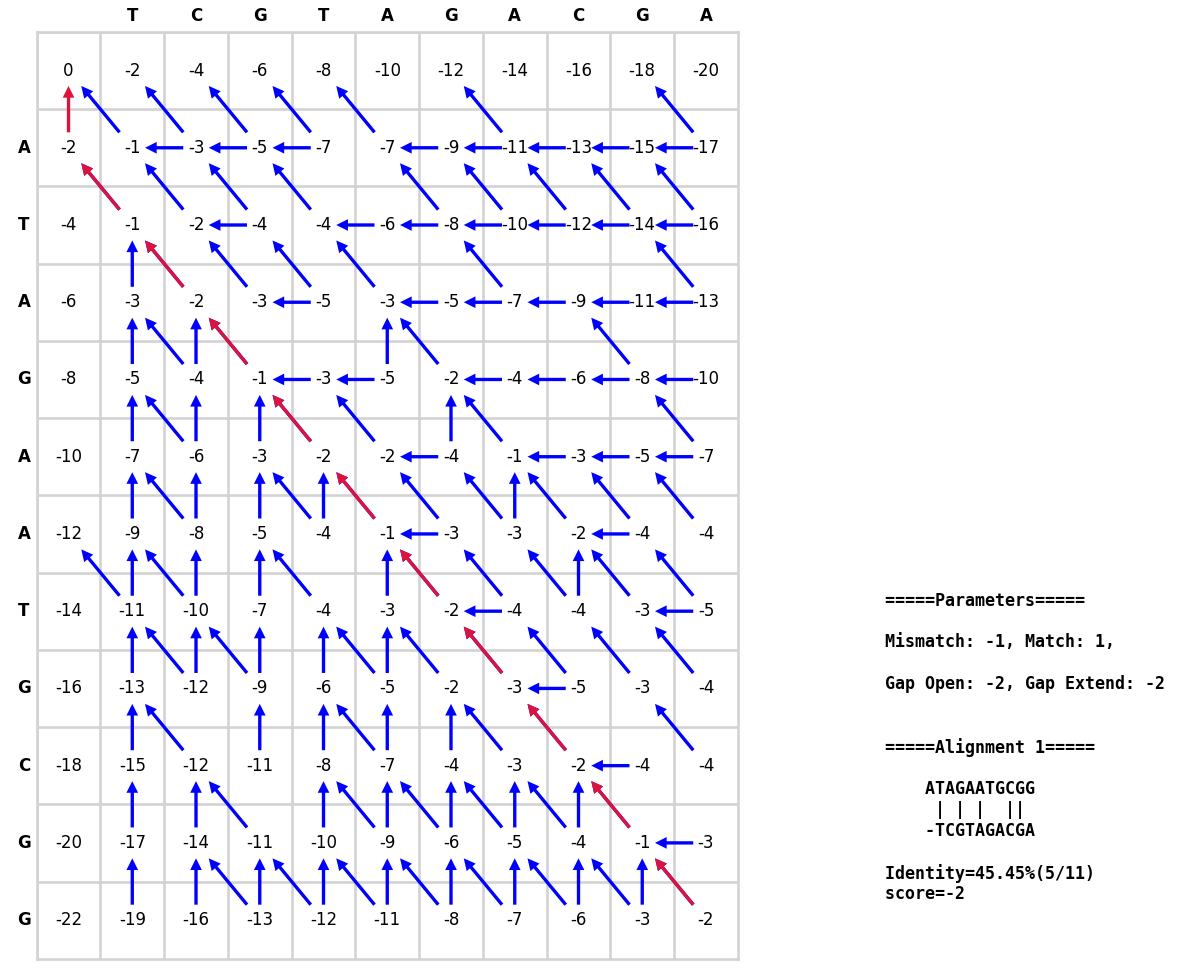
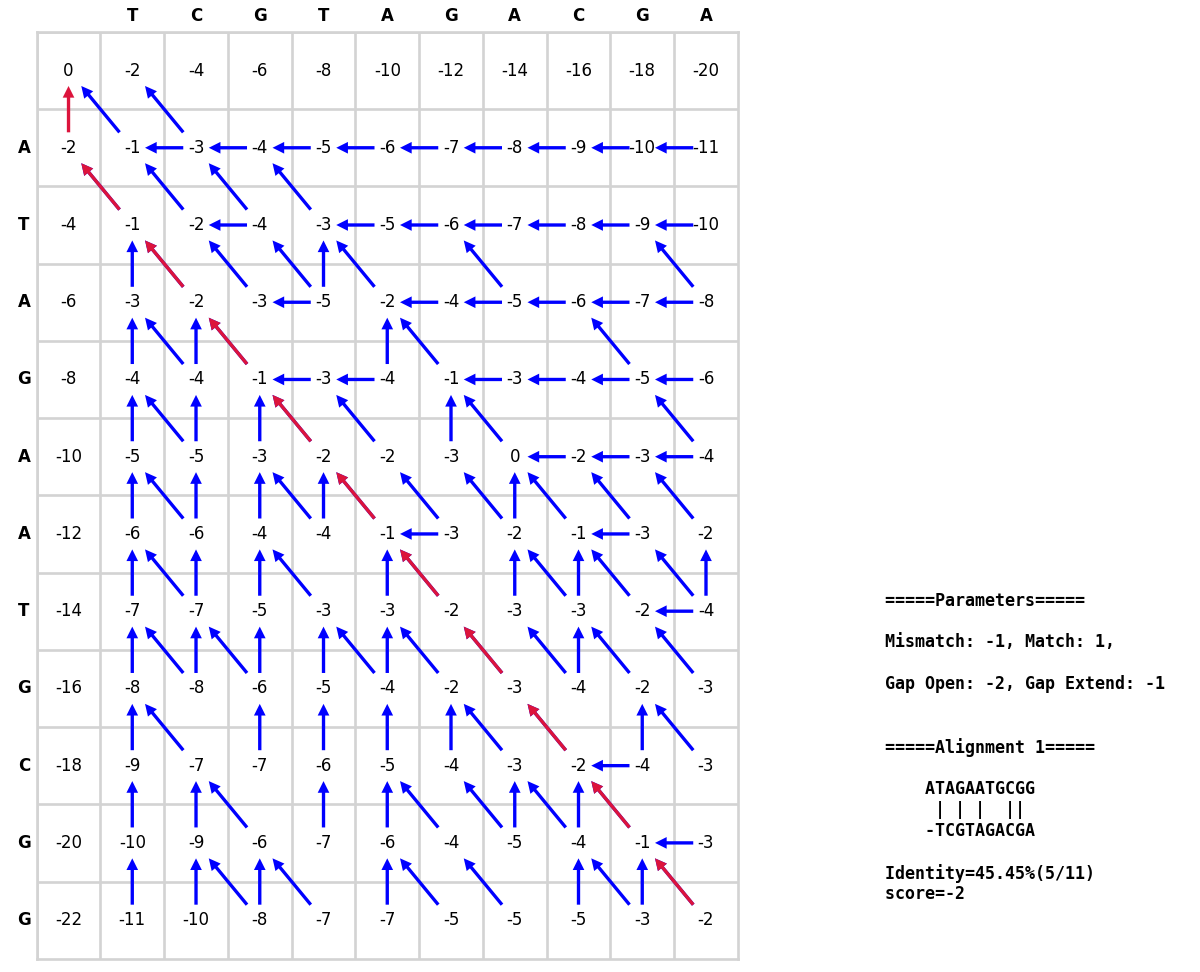
:memo:

diff --git a/seqAlignment/src/seqAlignment.py b/seqAlignment/src/seqAlignment.py
@@ -12,8 +12,9 @@ class PairwiseSeqAlignment():
         self.penalty = penalty_dict
         self.paths = []
         self.align_results = []
-        self.score_mat = np.zeros((len(self.seq1) + 1, len(self.seq2) + 1))
-        self.trace_mat = np.zeros((len(self.seq1) + 1, len(self.seq2) + 1))
+        # Initializes the  matrix
+        self.score_mat = np.zeros((len(self.seq1) + 1, len(self.seq2) + 1), dtype=int)
+        self.trace_mat = np.zeros((len(self.seq1) + 1, len(self.seq2) + 1),dtype=object)
 
     def print_align(self):
         # traverse each path
@@ -182,9 +183,6 @@ class NeedlemanWunsch(PairwiseSeqAlignment):
             1: 'D',  # vertical
             2: 'H'  # horizontal
         }
-        # Initializes the alignment
-        self.score_mat = np.zeros((n, m), dtype=int)
-        self.trace_mat = np.zeros((n, m), dtype=object)
         for i in range(n):
             for j in range(m):
                 self.trace_mat[i][j] = ''
@@ -277,9 +275,7 @@ class SmithWaterman(PairwiseSeqAlignment):
         n = len(self.seq1) + 1  # The dimension of the matrix columns.
         m = len(self.seq2) + 1  # The dimension of the matrix rows.
 
-        # Initializes the  matrix
-        self.score_mat = np.zeros((n, m), dtype=int)
-        self.trace_mat = np.zeros((n, m), dtype=object)
+
         for i in range(1, n):
             for j in range(1, m):
                 self.trace_mat[i][j] = ''

diff --git a/seqAlignment/main.py b/seqAlignment/main.py
@@ -4,7 +4,7 @@ def  main():
     # seq1, seq2 = 'ATGAC', 'AATGT'
     # seq1, seq2 = 'GATTACA', 'GCATGCG'
     # seq1, seq2 = 'GGTTGACTA', 'TGTTACGG'
-    penalty_dict = {'MATCH': 1, 'MISMATCH': -1, 'GAP_OPEN': -2, 'GAP_EXTEND': -2}
+    penalty_dict = {'MATCH': 1, 'MISMATCH': -1, 'GAP_OPEN': -2, 'GAP_EXTEND': -1}
     global_align = NeedlemanWunsch(seq1, seq2, penalty_dict)
     global_align.run()
     global_align.print_scoremat()
